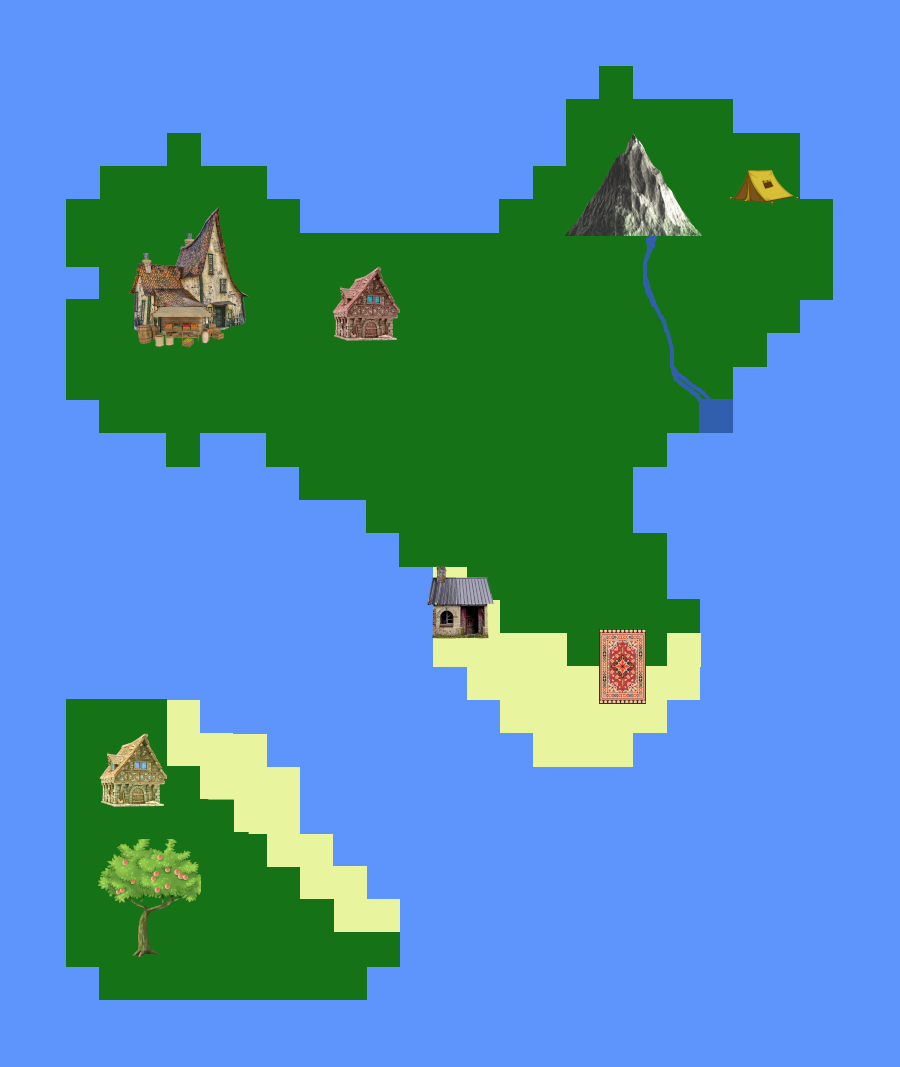
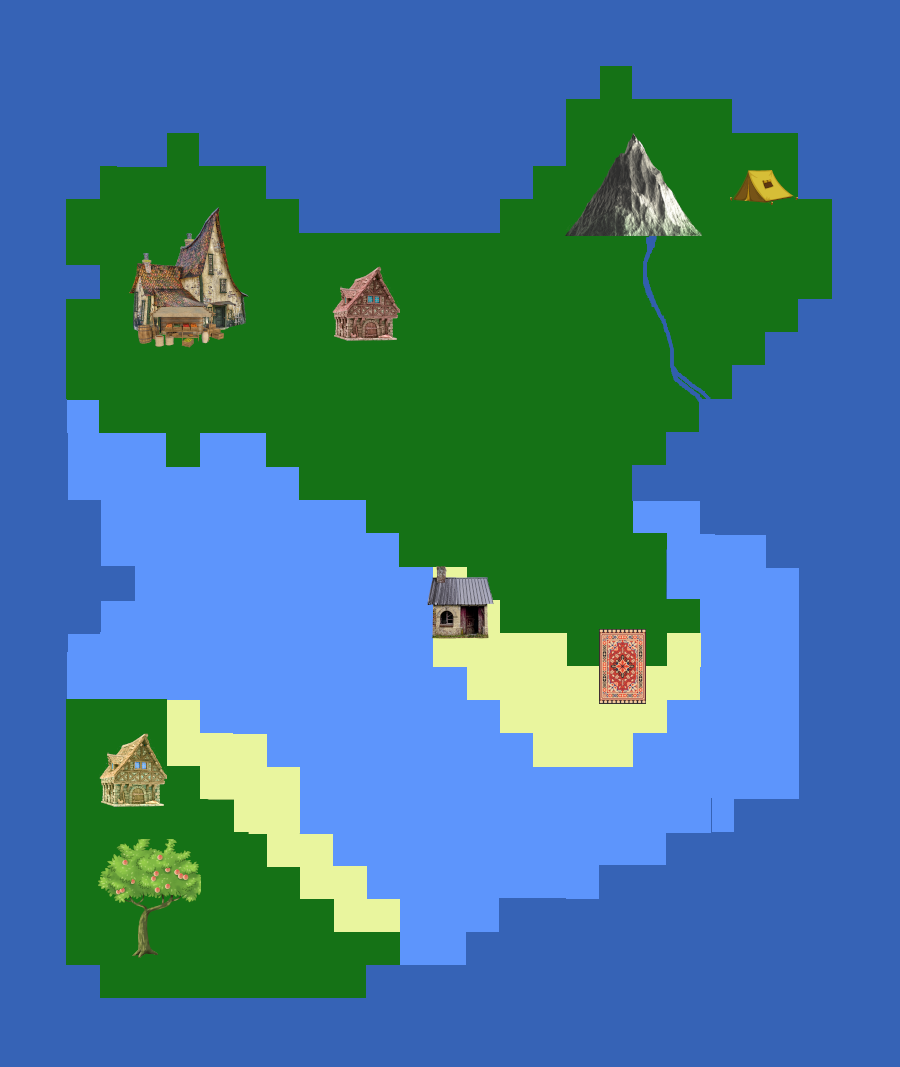
P2 : dep goes through neutral dialog array

diff --git a/Projects/Project2/P2 v0.4/js/script.js b/Projects/Project2/P2 v0.4/js/script.js
@@ -250,7 +250,7 @@ function draw() {
   cameraSetup();
   noStroke();
   // BACKGROUND //
-  background(93, 149, 252);
+  background(54, 99, 182);
   titleState();
   simulationState();
   //I can turn on and off the camera at any point to restore
@@ -1227,145 +1227,163 @@ function keyPressed() {
         ) {
           //if (npcFriendEvent === 0) {
 
+          if (playerPaused === true) {
+            // if player is paused
+            stopTextBubble = true; // bubble off
+            playerPaused = false; // un pause
+            ///return;
+          }
+          else {
           for (let i = 0; i < 8; i++) {
+            // go through cells around player
             if (playerAdjacentCells[i] === `DEP`) {
+              // if DEP is adjacent to player
               adjacentNPC = depMate;
 
-if (playerPaused === true){
-  playerPaused = false;
-  return;
-}
-else{
-  if (adjacentNPC.firstTalk === "true") {
-    console.log("yo");
-    npcText = adjacentNPC.initialDialog; // use player coordinates
-    adjacentNPC.firstTalk = "false";
-    playerPaused = true; // player is paused
-    stopTextBubble = false; //  text bubble is not stopped anymore
-    return;
-  }
-
-  if (selectItemHeldOut === true){
-  //dep mate gives gold coins for fruit edibles types
-  // otherwise he receives items as gifts which improve rel2pl
-  if (
-    selectItem !== { itemName: "empty", itemImageName: "no image" }
-  ) {
-    //console.log("yes you come here");
-    // if player is holding out item
-
-      //console.log("ok");
-
-    // go through item name list
-    for (let i = 0; i < itemNameList.length; i++) {
-      //console.log("nah?");
-      //console.log(itemNameList[i]);
-      //console.log(selectItem.name);
-      if (itemNameList[i] === selectItem.name) {
-        console.log(`you've given a ${selectItem.name}`);
-        //determine how much relationship manipulated
-        receivedItem = selectItem.name;
-        console.log(selectItem.name);
-        console.log(receivedItem);
-          console.log(`${adjacentNPC.relationship2items[receivedItem]}`);
-        let relationshipManipulator = adjacentNPC.relationship2items[receivedItem];
-
-        //console.log(adjacentNPC.cellLabel);
-
-  console.log(adjacentNPC.relationship2player);
-          console.log(`the manipulator is ${relationshipManipulator}`);
-
-        adjacentNPC.relationship2player =
-          adjacentNPC.relationship2player + relationshipManipulator;
 
 
-          console.log(adjacentNPC.relationship2player);
-            removeItemFromInv();
-      }
-    }
-  }
 
 
-    if (selectItem.itemName === adjacentNPC.relationship2items)
-      if (
-        adjacentNPC.relationship2player >= -9 &&
-        adjacentNPC.relationship2player <= 9
-      ) {
-        let dialogSelection = adjacentNPC.neutralDialog;
-        npcText = random(dialogSelection); // use player coordinates
-        playerPaused = true; // player is paused
-        stopTextBubble = false; //  text bubble is not stopped anymore
-        // no effect on rel2pl
-        // receiving item = true
-      } else if (adjacentNPC.relationship2player >= 10) {
-        let dialogSelection = adjacentNPC.frienlyDialog;
-        npcText = random(dialogSelection); // use player coordinates
-        playerPaused = true; // player is paused
-        stopTextBubble = false; //  text bubble is not stopped anymore
-        // +.2 on rel2pl
-        // receiving item = true
-      } else if (adjacentNPC.relationship2items <= -10) {
-        let dialogSelection = adjacentNPC.dislikeDialog;
-        npcText = random(dialogSelection); // use player coordinates                  playerPaused = true; // player is paused
-        stopTextBubble = false; //  text bubble is not stopped anymore
-        // -.2 on rel2pl
-        //receiving item = true
-      }
-      else {
-       // npc receives no gift, no effect on rel2pl
-     }
-     console.log("YESSSIRRRR");
-     //check for given item
-     //select a dialog
-     // check relationship to player
+                if (adjacentNPC.firstTalk === "true") {
+                  // if this is the first time talking to npc
+                  console.log("yo");
+                  npcText = adjacentNPC.initialDialog; // display npc initial dialog
+                  adjacentNPC.firstTalk = "false"; // then turn off first talk to initiate neutral dialog
+                  playerPaused = true; // player is paused
+                  stopTextBubble = false; //  text bubble is not stopped anymore
+                  return;
+                }
 
-     currentRelationToPlayer = adjacentNPC.relationship2player;
-     if (currentRelationToPlayer <= -10) {
-       // bad dialog
-       //is item being received? if yes display received item dialog, else just chitchat
-       if (stopTextBubble === true) {
-         // when space is pressed beside npc, text bubble is displayed
-         playerPaused = true; // player is paused
-         stopTextBubble = false; //  text bubble is not stopped anymore
-       } else if (stopTextBubble === false) {
-         stopTextBubble = true;
-         playerPaused = false;
-       }
-     }
-     if (
-       adjacentNPC.relationship2player >= -9 &&
-       adjacentNPC.relationship2player <= 9
-     ) {
-       // neutral dialog
-       //is item being received? if yes display received item dialog, else just chitchat
-       npcTextArray = adjacentNPC.neutralDialog; // use player coordinates
-       if (stopTextBubble === true) {
-         // when space is pressed beside npc, text bubble is displayed
-         playerPaused = true; // player is paused
-         stopTextBubble = false; //  text bubble is not stopped anymore
-       } else if (stopTextBubble === false) {
-         stopTextBubble = true;
-         playerPaused = false;
-       }
-     }
-     if (currentRelationToPlayer >= 10) {
-       // friendly dialog
-       //is item being received? if yes display received item dialog, else just chitchat
-       npcText = adjacentNPC.currentText; // use player coordinates
-       if (stopTextBubble === true) {
-         // when space is pressed beside npc, text bubble is displayed
-         playerPaused = true; // player is paused
-         stopTextBubble = false; //  text bubble is not stopped anymore
-       } else if (stopTextBubble === false) {
-         stopTextBubble = true;
-         playerPaused = false;
-       }
-     }
-  }
-}
-}
+                if (selectItemHeldOut === true) {
+                  //dep mate gives gold coins for fruit edibles types
+                  // otherwise he receives items as gifts which improve rel2pl
+                  if (
+                    selectItem !==
+                    { itemName: "empty", itemImageName: "no image" }
+                  ) {
+                    //console.log("yes you come here");
+                    // if player is holding out item
 
+                    //console.log("ok");
 
+                    // go through item name list
+                    for (let i = 0; i < itemNameList.length; i++) {
+                      //console.log("nah?");
+                      //console.log(itemNameList[i]);
+                      //console.log(selectItem.name);
+                      if (itemNameList[i] === selectItem.name) {
+                        console.log(`you've given a ${selectItem.name}`);
+                        //determine how much relationship manipulated
+                        receivedItem = selectItem.name;
+                        console.log(selectItem.name);
+                        console.log(receivedItem);
+                        console.log(
+                          `${adjacentNPC.relationship2items[receivedItem]}`
+                        );
+                        let relationshipManipulator =
+                          adjacentNPC.relationship2items[receivedItem];
+
+                        //console.log(adjacentNPC.cellLabel);
+
+                        console.log(adjacentNPC.relationship2player);
+                        console.log(
+                          `the manipulator is ${relationshipManipulator}`
+                        );
+
+                        adjacentNPC.relationship2player =
+                          adjacentNPC.relationship2player +
+                          relationshipManipulator;
+
+                        console.log(adjacentNPC.relationship2player);
+                        removeItemFromInv();
+                      }
+                    }
+                  }
+
+                  // now that rel2ply has been manipulated
+                    if (
+                      adjacentNPC.relationship2player >= -9 &&
+                      adjacentNPC.relationship2player <= 9
+                    ) {
+                      let dialogSelection = adjacentNPC.neutralDialog;
+                      npcText = random(dialogSelection); // use player coordinates
+                      playerPaused = true; // player is paused
+                      stopTextBubble = false; //  text bubble is not stopped anymore
+                      // no effect on rel2pl
+                      // receiving item = true
+                      //return;
+                    } else if (adjacentNPC.relationship2player >= 10) {
+                      let dialogSelection = adjacentNPC.friendlyDialog;
+                      npcText = random(dialogSelection); // use player coordinates
+                      playerPaused = true; // player is paused
+                      stopTextBubble = false; //  text bubble is not stopped anymore
+                      // +.2 on rel2pl
+                      // receiving item = true
+                      //return;
+                    } else if (adjacentNPC.relationship2items <= -10) {
+                      let dialogSelection = adjacentNPC.dislikeDialog;
+                      npcText = random(dialogSelection); // use player coordinates                  playerPaused = true; // player is paused
+                      stopTextBubble = false; //  text bubble is not stopped anymore
+                      // -.2 on rel2pl
+                      //receiving item = true
+                      //return;
+                    } else {
+                      // npc receives no gift, no effect on rel2pl
+                    }
+                  console.log("YESSSIRRRR");
+                  //check for given item
+                  //select a dialog
+                  // check relationship to player
+
+                  // currentRelationToPlayer = adjacentNPC.relationship2player;
+                  // if (currentRelationToPlayer <= -10) {
+                  //   // bad dialog
+                  //   //is item being received? if yes display received item dialog, else just chitchat
+                  //   if (stopTextBubble === true) {
+                  //     // when space is pressed beside npc, text bubble is displayed
+                  //     playerPaused = true; // player is paused
+                  //     stopTextBubble = false; //  text bubble is not stopped anymore
+                  //   } else if (stopTextBubble === false) {
+                  //     stopTextBubble = true;
+                  //     playerPaused = false;
+                  //   }
+                  // }
+                  // if (
+                  //   adjacentNPC.relationship2player >= -9 &&
+                  //   adjacentNPC.relationship2player <= 9
+                  // ) {
+                  //   // neutral dialog
+                  //   //is item being received? if yes display received item dialog, else just chitchat
+                  //   npcTextArray = adjacentNPC.neutralDialog; // use player coordinates
+                  //   if (stopTextBubble === true) {
+                  //     // when space is pressed beside npc, text bubble is displayed
+                  //     playerPaused = true; // player is paused
+                  //     stopTextBubble = false; //  text bubble is not stopped anymore
+                  //   } else if (stopTextBubble === false) {
+                  //     stopTextBubble = true;
+                  //     playerPaused = false;
+                  //   }
+                  // }
+                  // if (currentRelationToPlayer >= 10) {
+                  //   // friendly dialog
+                  //   //is item being received? if yes display received item dialog, else just chitchat
+                  //   npcText = adjacentNPC.currentText; // use player coordinates
+                  //   if (stopTextBubble === true) {
+                  //     // when space is pressed beside npc, text bubble is displayed
+                  //     playerPaused = true; // player is paused
+                  //     stopTextBubble = false; //  text bubble is not stopped anymore
+                  //   }
+                  //
+                  //   else if (stopTextBubble === false) { // if there is text bubble when pressing start
+                  //     stopTextBubble = true; // turn text bubble off
+                  //     playerPaused = false; // un pause player
+                  //   }
+                  }
+                }
+
+              //}
+            //}
+            // DEP end
 
 
             else if (playerAdjacentCells[i] === `BOT`) {
@@ -1448,15 +1466,20 @@ else{
               } else {
                 removeItemFromInv();
               }
-            } else if (stopTextBubble === false) {
-              stopTextBubble = true;
-              playerPaused = false;
             }
+// if the text bubble is up and you press space
+            // else if (stopTextBubble === false) {
+            //   stopTextBubble = true; // bubble off
+            //   playerPaused = false; // player un pause
+            // }
           }
         }
       }
+      // end npc interactions
+
     }
   }
+}
 }
 
 function removeItemFromInv() {
@@ -1507,21 +1530,21 @@ function pickItemUp() {
   if (nextCell === `Di`) {
     //console.log("huh?")
     itemPickup(`diamond`);
-    let rockDropTime = random(1000, 5000); // extend timing!! ##
+    let rockDropTime = random(11000, 35000); // extend timing!! ##
     rockDropSelection = random(riverRocks);
     setTimeout(dropItem.bind(this, rockDropSelection), rockDropTime);
   }
   if (nextCell === `Pr`) {
     //console.log("huh?")
     itemPickup(`petRock`);
-    let rockDropTime = random(1000, 5000); // extend timing!! ##
+    let rockDropTime = random(11000, 35000); // extend timing!! ##
     rockDropSelection = random(riverRocks);
     setTimeout(dropItem.bind(this, rockDropSelection), rockDropTime);
   }
 
   if (nextCell === `Em`) {
     itemPickup(`emerald`);
-    let rockDropTime = random(1000, 5000); // extend timing!! ##
+    let rockDropTime = random(11000, 35000); // extend timing!! ##
     rockDropSelection = random(riverRocks);
     setTimeout(dropItem.bind(this, rockDropSelection), rockDropTime);
   }
